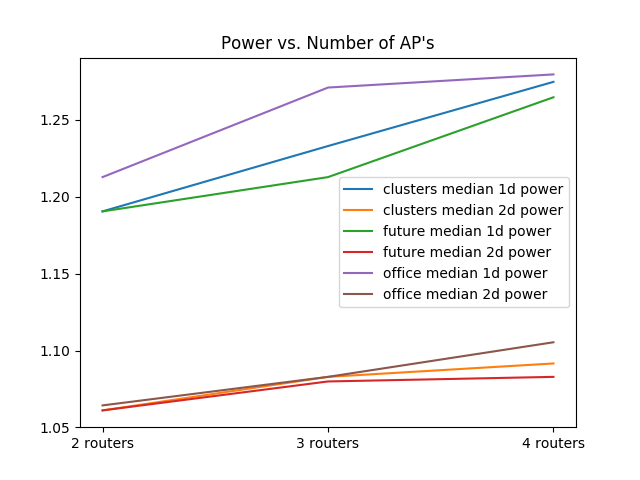
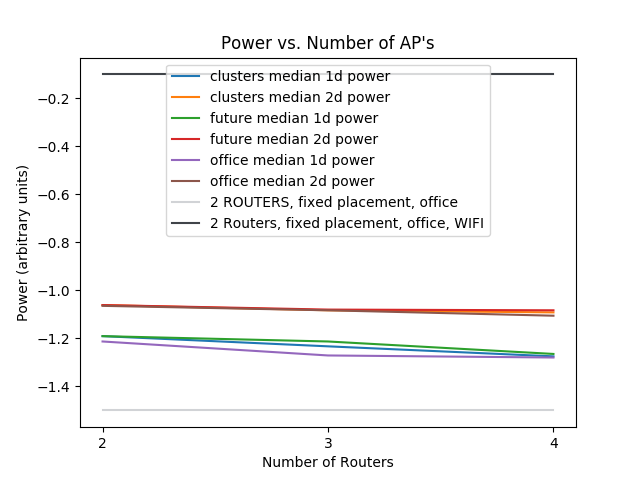
fixed some problems with computing minima and some minor tweaks to plots

diff --git a/plot.py b/plot.py
@@ -17,12 +17,14 @@ future_floats = np.empty(np.array(future).shape)
 office_floats = np.empty(np.array(office_hours).shape)
 
 # storing the actual power/throughput inside them
+# the signs on all of the information were flipped to make use of the minimize
+# operation. Here it is flipped back
 for i, x in np.ndenumerate(clusters):
-    clusters_floats[i] = x.fun
+    clusters_floats[i] = -x.fun
 for i, x in np.ndenumerate(future):
-    future_floats[i] = x.fun
+    future_floats[i] = -x.fun
 for i, x in np.ndenumerate(office_hours):
-    office_floats[i] = x.fun
+    office_floats[i] = -x.fun
 
 # plot power
 plt.plot(np.median(clusters_floats[0,1], axis=1), label='clusters median 1d power')
@@ -31,7 +33,11 @@ plt.plot(np.median(future_floats[0,1], axis=1), label='future median 1d power')
 plt.plot(np.median(future_floats[1,1], axis=1), label='future median 2d power')
 plt.plot(np.median(office_floats[0,1], axis=1), label='office median 1d power')
 plt.plot(np.median(office_floats[1,1], axis=1), label='office median 2d power')
-plt.xticks(np.arange(3), ('2 routers', '3 routers', '4 routers'))
+plt.plot([-1.5] * 3, '#d1d3d6', label='2 ROUTERS, fixed placement, office')
+plt.plot([-0.1] * 3, '#404449', label='2 Routers, fixed placement, office, WIFI')
+plt.xlabel('Number of Routers')
+plt.ylabel('Power (arbitrary units)')
+plt.xticks(np.arange(3), np.arange(2, 5))
 plt.legend()
 plt.title("Power vs. Number of AP's")
 plt.savefig('power.png')

diff --git a/placement.py b/placement.py
@@ -74,7 +74,7 @@ def throughput(positions, density, dimensions, one_d):
     all_antennas_bandwidth = [[] for i in range(density.shape[0] * density.shape[1])]
     for i, x in np.ndenumerate(density):
         all_antennas_bandwidth[i[0] * density.shape[1] + i[1]] = np.full(x, bandwidths[assignment[i]])
-    return np.median(list(itertools.chain.from_iterable(all_antennas_bandwidth)))
+    return -np.median(list(itertools.chain.from_iterable(all_antennas_bandwidth)))
 
 
 # assuming each router and antenna has the same amount of power and directivity,
